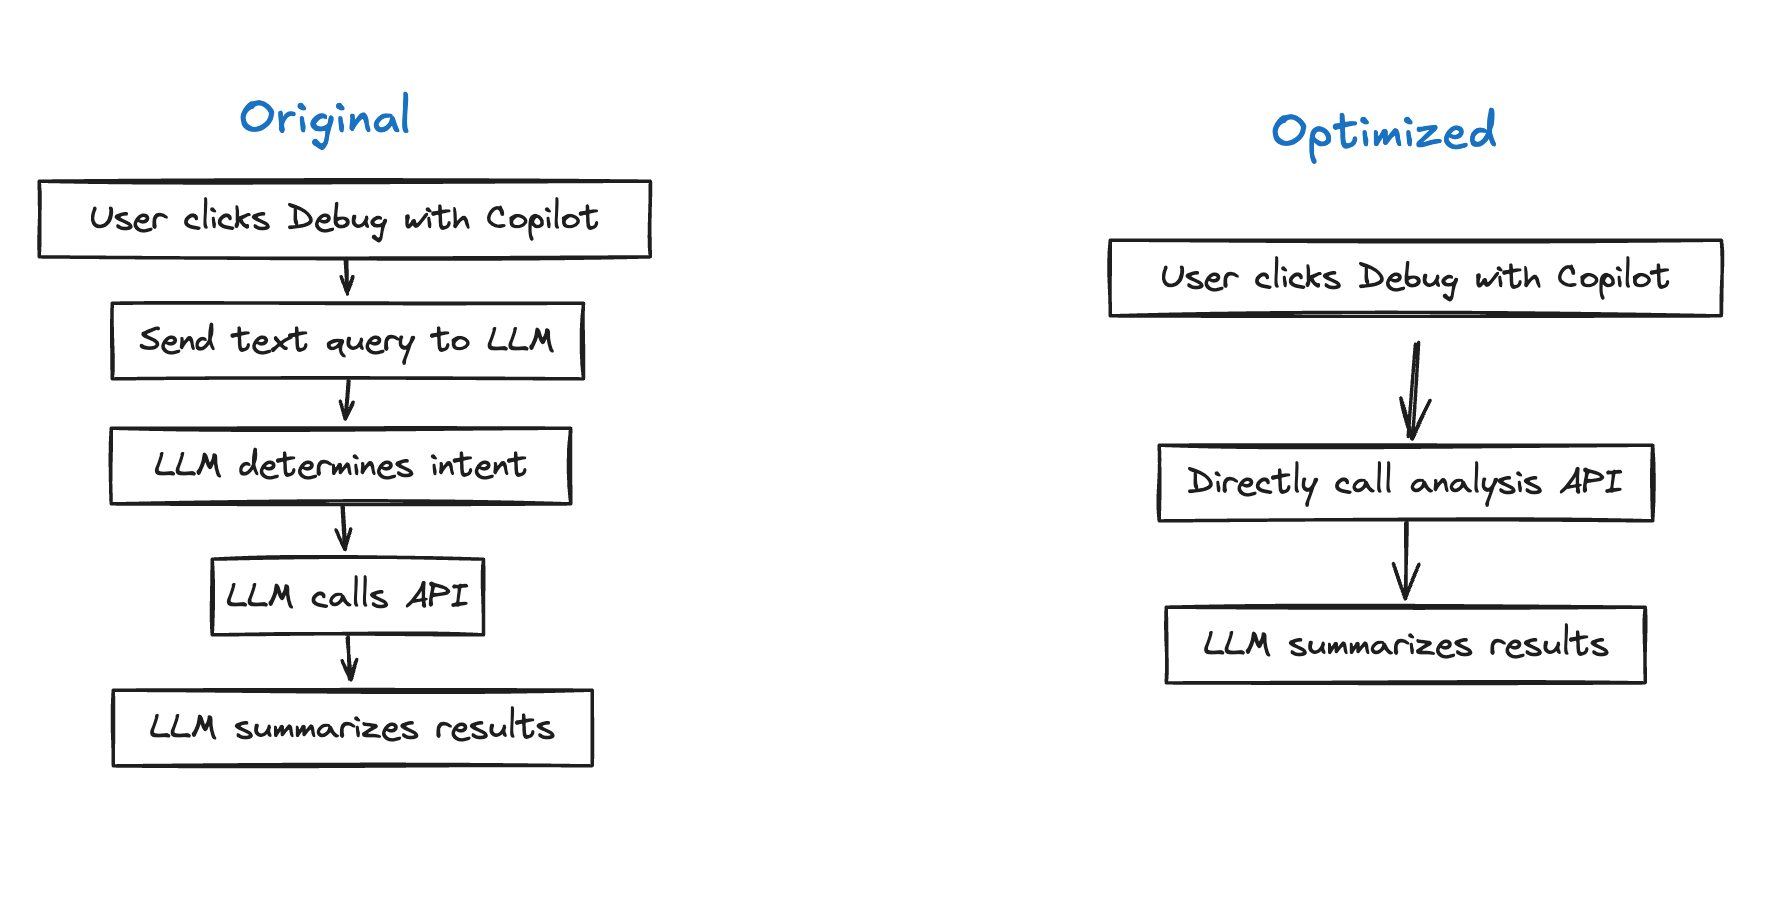
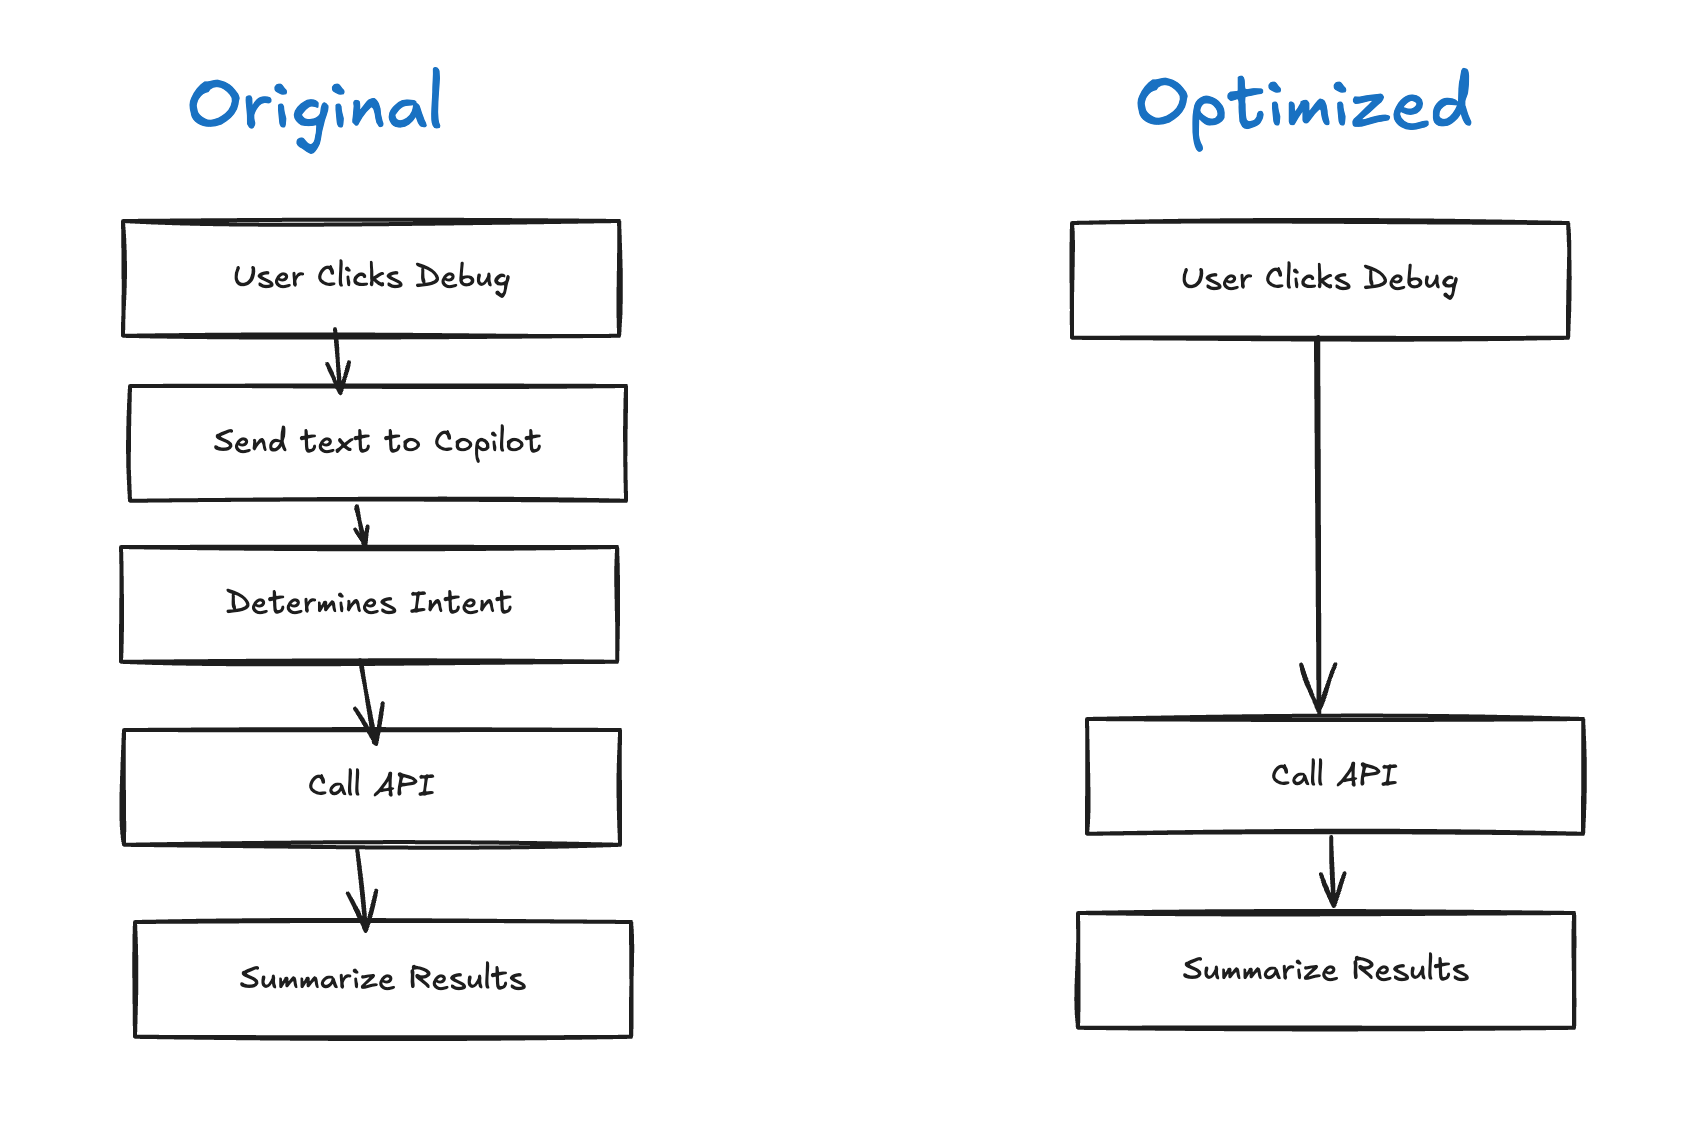
Add Simon Howe as an author and update content in 'Copilot Lessons' blog post.

diff --git a/content/blog/copilot-lessons/index.md b/content/blog/copilot-lessons/index.md
@@ -6,6 +6,7 @@ meta_desc: Learn key engineering lessons from building Pulumi Copilot, including
 meta_image: meta.png
 authors:
     - artur-laksberg
+    - simon-howe
     - adam-gordon-bell
 tags:
     - Copilot
@@ -15,15 +16,15 @@ social:
     twitter: 🚀 Building Pulumi Copilot taught us key AI engineering insights – Minimize LLM workload, validate outputs rigorously & use "skills" for modular tasks. Plus, sometimes when AI hallucinates features, it reveals exactly what users want! 
     linkedin: 🚀 Building Pulumi Copilot taught us key AI engineering insights – Minimize LLM workload, validate outputs rigorously & use "skills" for modular tasks. Plus, sometimes when AI hallucinates features (like a "--force" flag), it reveals exactly what users want! 
 ---
-Today we want to share some insights from the Copilot team at Pulumi, where we're building an AI assistant for cloud infrastructure - including some learnings about AI hallucinations that taught us not only about AI but also about our own product and how our customers use it.
+Building AI-powered developer tools comes with unique challenges, and today we want to share some key insights from our journey creating Pulumi Copilot, an AI assistant for cloud infrastructure.
 
-While reviewing user feedback for Pulumi Copilot, one message caught our eye: "Your tool doesn't know anything!". Having just made some changes, we braced for the worst. But the evals were still looking strong, so what was going on?
+Consider this user feedback we received:  "Your tool doesn't know anything!". Having just made some changes, we braced for the worst. But the evals were still looking strong, so what was going on?
 
 <!--more-->
 
-The user was attempting to force-delete a stack that still contained resources. Copilot confidently suggested utilizing a `--force` flag, which would have been a logical solution... except this flag doesn't exist in Pulumi. This was a pure hallucination! Such occurrences are typical when building with LLMs. However, this particular error was more than a simple glitch - it revealed something about the product, and out customer expectations.
+The user was attempting to force-delete a stack that still contained resources. Copilot confidently suggested utilizing a `--force` flag, which would have been a logical solution... except this flag doesn't exist in Pulumi. This was a pure hallucination! Such occurrences are typical when building with LLMs. However, this particular error was more than a simple glitch - it revealed something about the product, and our customer expectations.
 
-Let's start with the fundamental tension between software engineering and prompt engineering.
+To understand how we got here - and why this "error" actually taught us something valuable about our product - let's start with the core challenge we faced: balancing traditional software engineering with the new world of prompt engineering.
 
 ## Engineering for Reality: Software Engineering vs Prompt Engineering
 
@@ -69,8 +70,6 @@ Refining this routing system revealed another opportunity: streamlining the Debu
 
 ![Before and After](optimize.png)
 
-<!-- We have an issue here with the picture: LLM does not call the API. LLM used to make up the URL (occasionally hallucinating), then Copilot would call that API and fed the results back the LLM for summarization. This is a very important point about how tool invocation work, we must get it right -->
-
 Originally, when a user clicked 'Debug with Copilot', the system would send a text query like "Analyze this update and explain any errors." Copilot would then:
 
 1. Determines the user wants to analyze an update
@@ -90,7 +89,7 @@ But while minimizing the LLM workload helped with efficiency, we soon faced an e
 
 Large language models excel at generating well-structured, grammatically correct output. They makes neat tables, tell good stories, and generally sound confident. That's what makes them dangerous because this polished presentation can mask underlying flaws in the information itself, creating a false sense of confidence for users.
 
-One of our early testers, Pablo, <!-- TODO: ask Pablo --> encountered this firsthand. He posed a query to Pulumi Copilot, asking for a summary of resources within a specific project. The response he received was impeccably formatted, neatly categorizing resources by type and providing counts for each. It *looked* right, and for us humans sometimes looking right carries a lot of weight.
+One of our early testers, Pablo, encountered this firsthand. He posed a query to Pulumi Copilot, asking for a summary of resources within a specific project. The response he received was impeccably formatted, neatly categorizing resources by type and providing counts for each. It *looked* right, and for us humans sometimes looking right carries a lot of weight.
 
 However, a closer inspection revealed the numbers were way off. Copilot had asked for the wrong data and then summarized it beautifully - but incorrectly. This highlighted our next challenge: how do you systematically test a system that can be confidently wrong while sounding completely right?
 
